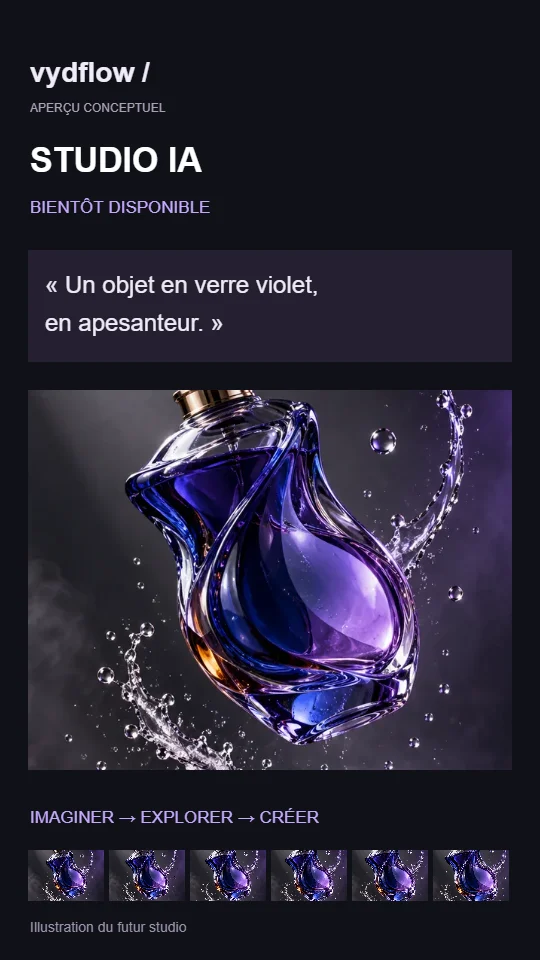
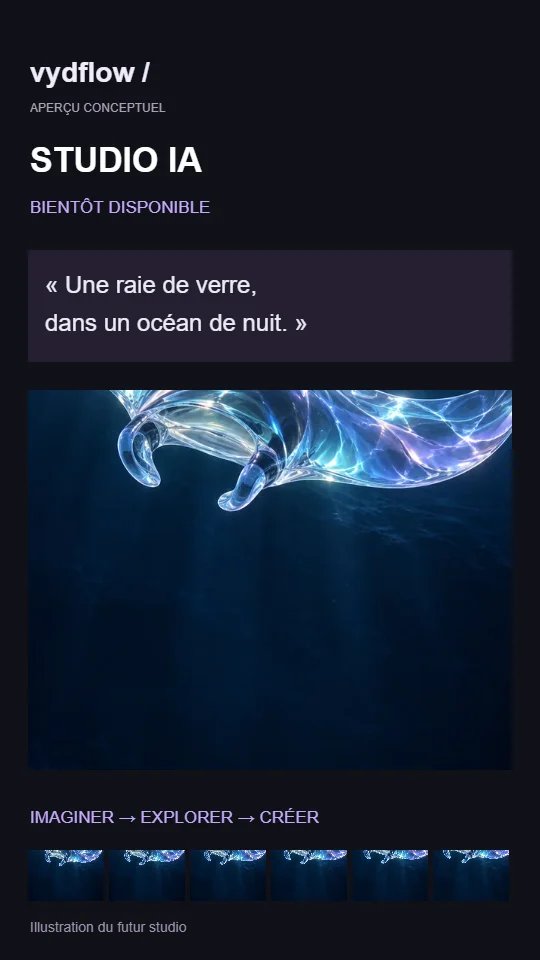
feat: refine VydFlow framing, chapter artwork and mobile finale

diff --git a/assets/styles/experience.css b/assets/styles/experience.css
@@ -30,10 +30,10 @@
 .calendar-block{align-items:center;padding:10px 8px;min-height:64px;font-size:10px}.calendar-block img{width:30px;height:43px;border-radius:3px;object-fit:cover}.calendar-block small{font-size:8px;line-height:1.5}.calendar-note{font-size:9px;margin-top:25px;color:#9c90ab}
 .organization .scene-copy{max-width:840px}.story.is-immersive .organization{min-height:max(1100px,125svh)}
 .ai-output{height:290px;margin-left:65px}.ai-output img{object-position:50% 49%;opacity:.9}
-.timeline-track i{background-image:url('/media/creators/object-thumb.webp');background-position:center calc(30% + var(--frame)*5%);background-size:calc(100% + var(--frame)*8%) auto}
-.creative-contact-sheet{display:flex;justify-content:center;gap:18px;padding:30px 0 60px;position:relative;z-index:2;perspective:1000px}
-.creative-contact-sheet img{width:115px;height:155px;object-fit:cover;border:1px solid #ffffff29;border-radius:6px;box-shadow:0 15px 40px #0009;transform:rotate(-8deg)}
-.creative-contact-sheet img:nth-child(even){transform:translateY(18px) rotate(7deg)}
+.timeline-track i{background-image:url('/media/creators/manta-thumb.webp');background-position:center calc(30% + var(--frame)*5%);background-size:calc(100% + var(--frame)*8%) auto}
+
+
+
 .scene-copy:before{inset:-40px -45px;background:radial-gradient(ellipse,#08090cf0 20%,#08090cb8 45%,transparent 73%)}
 .transformation:after,.organization:after{content:'';position:absolute;inset:0;z-index:-2;pointer-events:none;background:url('/media/creators/backstage.webp') center/cover;opacity:.055;mask-image:linear-gradient(transparent,#000 35%,transparent)}
 .organization:after{background-image:url('/media/creators/architecture.webp');opacity:.07}
@@ -62,19 +62,38 @@
   .preview-calendar{padding:18px;grid-column:auto}.preview-calendar .panel-heading{font-size:13px}.preview-calendar .panel-heading small{font-size:8px}.week{font-size:11px;margin:22px 0}.calendar-date{font-size:9px}.calendar-date strong{font-size:36px}.calendar-block{font-size:13px;padding:12px;gap:12px;min-height:80px}.calendar-block img{width:39px;height:55px}.calendar-block small{font-size:10px;margin-top:6px}.calendar-empty{display:block;font-size:11px;margin-top:22px}.calendar-note{font-size:11px;margin-bottom:0}
   .preview-bottom{font-size:7px;line-height:1.7;gap:15px;margin-top:24px}.organization .scene-disclaimer{text-align:left;font-size:11px;line-height:1.8}
   .vision{gap:34px}.prompt-card{padding:21px;transform:rotate(-2deg)}.prompt-card>span{font-size:9px}.prompt-card p{font-size:13px}.prompt-card small{font-size:8px}.generation-line{font-size:8px;margin:23px 15px}.ai-output{height:300px;margin-left:18px;transform:rotate(2deg)}.ai-output img{object-position:50% 44%}.ai-output>span{left:17px;bottom:20px}.ai-output b{font-size:20px}.timeline-preview{padding:17px;margin-top:25px}.timeline-preview>div:first-child{font-size:8px}.timeline-track{height:52px}.timeline-preview small{font-size:7px}
-  .creative-contact-sheet{gap:10px;padding:18px 20px 38px;display:grid;grid-template-columns:repeat(3,1fr);max-width:390px;margin:auto}.creative-contact-sheet img{width:100%;height:130px;transform:rotate(-4deg)}.creative-contact-sheet img:nth-child(even){transform:translateY(8px) rotate(4deg)}
+
   .finale{min-height:420px;padding-block:70px}.finale h2,.story.is-immersive .finale h2{font-size:43px}.finale-signature{font-size:54px;bottom:35px}.join{padding-block:65px}.join h2{font-size:38px}.join small{font-size:11px}
   .motion-toggle:not([hidden]){display:block;position:fixed;left:50%;right:auto;transform:translateX(-50%);bottom:9px;width:max-content;max-width:calc(100% - 40px);padding:8px 12px;font-size:9px;background:#14131ef5;box-shadow:0 5px 18px #0008}
   .transformation:after,.organization:after{display:none}
 }
 @media(max-width:360px){h1{font-size:35px}.hero,.story.is-immersive .hero,.world,.story.is-immersive .world{height:max(740px,100svh);min-height:740px}.fallback-phone{top:267px;width:168px;height:314px}.hero-mobile-cta{bottom:67px}.hero-mobile-cta p{font-size:11px}.library-video>div{height:148px}.library-grid{gap:20px 11px}.preview-content{padding:14px}.preview-title{font-size:12px}.destination-title h3{font-size:20px}.finale h2{font-size:39px}}
-@media(prefers-reduced-motion:reduce){.creative-contact-sheet img,.creative-contact-sheet img:nth-child(even),.mobile-editor-phone,.prompt-card,.ai-output,.timeline-preview{transform:none}.preview-video{display:none}.mobile-editor-phone{position:relative;top:0}}
+@media(prefers-reduced-motion:reduce){.mobile-editor-phone,.prompt-card,.ai-output,.timeline-preview{transform:none}.preview-video{display:none}.mobile-editor-phone{position:relative;top:0}}
 
 /* Keep the entire vertical edit visible, including its subtitles. */
-.media-window{height:auto;aspect-ratio:9/16}.creative-contact-sheet{overflow:clip}.frame-marks{background-image:url("/media/screens/screen-1.webp")}@media(max-width:1000px){.media-window{max-height:none;aspect-ratio:9/16}}
+.media-window{height:auto;aspect-ratio:9/16}@media(max-width:1000px){.media-window{max-height:none;aspect-ratio:9/16}}
 
 @media(max-width:1000px){.scene.hero{padding-top:99px;padding-bottom:0}.hero .scroll-hint{display:none}.mobile-explore{font-size:10px;color:#c0acd8;padding:3px 8px}.mobile-editor-phone{position:relative;top:0}.motion-toggle:not([hidden]){position:absolute;top:calc(max(780px,100svh) - 36px);bottom:auto;padding:6px 10px;font-size:8px}}@media(max-width:360px){.motion-toggle:not([hidden]){top:calc(max(740px,100svh) - 36px)}}
 
 @media(max-width:360px){.fallback-phone{top:257px;width:148px;height:278px}}@media(max-width:340px){h1{font-size:31px}.nav .wordmark{font-size:21px;gap:4px}.nav .button.small{font-size:8px;padding:10px;gap:10px}.nav .button.small span{font-size:15px}}
 
-.story{overflow:clip}@media(max-width:1000px){.nav{height:76px}.nav nav,.edition,.frame-marks,.studio-preview aside{display:none}.nav .wordmark{font-size:24px}.hero-top{justify-content:center}.scene{min-height:0}.scene-copy{max-width:none}.vision{display:flex;flex-direction:column;align-items:stretch}.world-footer{display:none}}@media(min-width:761px) and (max-width:1000px){.scene.hero,.world{height:max(860px,100svh);min-height:860px}.hero h1{font-size:54px}.fallback-phone{top:300px;width:190px;height:350px}.hero-mobile-cta{bottom:68px}.motion-toggle:not([hidden]){top:calc(max(860px,100svh) - 36px)}.scene h2{font-size:44px}.library-grid{grid-template-columns:repeat(3,1fr)}.library-video>div{height:200px}.destinations{max-width:560px;margin-inline:auto}.destination{max-width:390px}.vision .ai-composition{max-width:560px;width:100%;margin:auto}.creative-contact-sheet{max-width:500px}}
+.story{overflow:clip}@media(max-width:1000px){.nav{height:76px}.nav nav,.edition,.studio-preview aside{display:none}.nav .wordmark{font-size:24px}.hero-top{justify-content:center}.scene{min-height:0}.scene-copy{max-width:none}.vision{display:flex;flex-direction:column;align-items:stretch}.world-footer{display:none}}@media(min-width:761px) and (max-width:1000px){.scene.hero,.world{height:max(860px,100svh);min-height:860px}.hero h1{font-size:54px}.fallback-phone{top:300px;width:190px;height:350px}.hero-mobile-cta{bottom:68px}.motion-toggle:not([hidden]){top:calc(max(860px,100svh) - 36px)}.scene h2{font-size:44px}.library-grid{grid-template-columns:repeat(3,1fr)}.library-video>div{height:200px}.destinations{max-width:560px;margin-inline:auto}.destination{max-width:390px}.vision .ai-composition{max-width:560px;width:100%;margin:auto}}
+
+/* Third pass: a true framing stop and two exclusive chapter artworks. */
+.capture-caption{position:absolute;transform:translateX(-50%);opacity:0;white-space:nowrap;font-size:9px;letter-spacing:1.5px;color:#d9c7ff;pointer-events:none}
+.capture-fallback{position:absolute;right:10%;top:20%;width:245px;padding:8px;border:1px solid #c8b5de66;border-radius:35px;background:#1a1721;transform:rotate(-3deg)}
+.capture-fallback img{display:block;width:100%;height:auto;border-radius:27px}
+.is-immersive .capture-fallback{display:none}
+.creative-transition{position:relative;height:360px;margin:30px auto 80px;width:min(1120px,90%);overflow:hidden;border:1px solid #ffffff20}
+.creative-transition img{width:100%;height:100%;object-fit:cover;object-position:50% 43%;filter:brightness(.72)}
+.creative-transition span{position:absolute;left:35px;bottom:32px;font-size:12px;letter-spacing:3px;color:#f6eef9}
+.finale-mobile-device{display:none}
+@media(max-width:1000px){
+  .capture-fallback,.capture-caption{display:none}
+  .creative-transition{height:280px;margin:15px auto 25px;width:calc(100% - 40px)}
+  .creative-transition img{object-position:50% 35%}.creative-transition span{left:18px;bottom:22px;font-size:9px;letter-spacing:1.5px}
+  .finale-mobile-device{display:block;width:200px;margin:0 auto 38px;padding:5px;border:1px solid #a091b5;border-radius:29px;background:#1a1721;box-shadow:0 25px 60px #0008;transform:rotate(-4deg)}
+  .finale-mobile-device img{display:block;width:100%;height:auto;border-radius:23px}
+  .finale{padding-top:45px;padding-bottom:100px}
+}
+@media(prefers-reduced-motion:reduce){.finale-mobile-device,.capture-fallback{transform:none}}

diff --git a/assets/controllers/studio_controller.js b/assets/controllers/studio_controller.js
@@ -3,7 +3,7 @@ import { Controller } from '@hotwired/stimulus';
 const CHAPTERS = ['01 — L’IMPULSION', '01 — L’IMPULSION', '02 — LA RÉSONANCE', '03 — LE STUDIO', '04 — L’HORIZON', '05 — À TOI DE CRÉER'];
 
 export default class extends Controller {
-  static targets = ['canvas', 'stage', 'fallback', 'counter', 'progress', 'toggle'];
+  static targets = ['canvas', 'stage', 'fallback', 'counter', 'progress', 'toggle', 'framing'];
 
   connect() {
     this.element.dataset.studioState = 'connecting';
@@ -79,14 +79,14 @@ export default class extends Controller {
       this.animationContext.add(() => {
         const poses = [
           { px: 0, py: -1.45, pz: 0, rx: .04, ry: -.28, rz: -.09, scale: .78, orbit: -.45, light: 5 },
-          { px: 2.55, py: 0, pz: .7, rx: .22, ry: .62, rz: .14, scale: 1.02, orbit: .35, light: 9 },
+          { px: 2.55, py: 0, pz: .15, rx: .02, ry: -.08, rz: 0, scale: .86, orbit: .35, light: 9 },
           { px: -3.35, py: -.8, pz: 0, rx: -.08, ry: -.38, rz: -.16, scale: .82, orbit: 1.35, light: 7 },
           { px: 4.2, py: 1.5, pz: -2, rx: .32, ry: -.65, rz: .25, scale: .56, orbit: 2.4, light: 3 },
           { px: -3.4, py: -2.1, pz: -.8, rx: -.18, ry: .48, rz: -.25, scale: .48, orbit: 3.3, light: 8 },
           { px: -3, py: 0, pz: .2, rx: .04, ry: -.25, rz: -.14, scale: .96, orbit: 4.4, light: 6 },
         ];
         const atmospheres = [{cool:0, lift:-.3, spread:1}, {cool:.2, lift:0, spread:1}, {cool:0, lift:0, spread:1}, {cool:.8, lift:-1.8, spread:.55}, {cool:1, lift:0, spread:.8}, {cool:.1, lift:0, spread:1}];
-        poses.forEach((pose, index) => Object.assign(pose, atmospheres[index]));
+        poses.forEach((pose, index) => Object.assign(pose, atmospheres[index], { capture: index === 1 ? 1 : 0, ribbon: [.42, .06, .14, .05, 0, .08][index] }));
         Object.assign(this.pose, poses[0]);
         // One scroll clock owns every pose: fast reverse scrolling cannot leave a later tween in control.
         const scrollState = { progress: 0 };
@@ -95,7 +95,9 @@ export default class extends Controller {
           const position = scrollState.progress * distance;
           let index = 0;
           while (index < poses.length - 2 && position > stops[index + 1]) index++;
-          const fraction = Math.max(0, Math.min(1, (position - stops[index]) / (stops[index + 1] - stops[index])));
+          const raw = Math.max(0, Math.min(1, (position - stops[index]) / (stops[index + 1] - stops[index])));
+          // Hold the edit inside its framing rig before starting the next journey.
+          const fraction = index === 1 ? Math.max(0, (raw - .28) / .72) : raw;
           const eased = (1 - Math.cos(fraction * Math.PI)) / 2;
           Object.keys(poses[0]).forEach(key => { this.pose[key] = poses[index][key] + (poses[index + 1][key] - poses[index][key]) * eased; });
           this.screenPhase = index + Math.max(0, Math.min(1, (fraction - .5) / .25));
@@ -175,6 +177,19 @@ export default class extends Controller {
     mesh(new THREE.ShapeGeometry(rounded(.67, .15, .075)), new THREE.MeshBasicMaterial({ color: 0x030305 }), phone, 0, 1.8, .235);
     mesh(new THREE.BoxGeometry(.04, .42, .1), new THREE.MeshStandardMaterial({ color: 0xaaa1b6, metalness: 1, roughness: .2 }), phone, 1.17, .65, .08);
     mesh(new THREE.BoxGeometry(.04, .22, .1), new THREE.MeshStandardMaterial({ color: 0xaaa1b6, metalness: 1, roughness: .2 }), phone, -1.17, .9, .08);
+    // The framing rig shares the phone's camera and world units, so resize cannot misalign them.
+    this.captureRig = new THREE.Group();
+    this.captureMaterial = keep(new THREE.LineBasicMaterial({ color: 0xd9c7ff, transparent: true, opacity: 0, depthTest: false, depthWrite: false }));
+    const corners = [], halfW = 1.19, halfH = 2.05, arm = .28;
+    for (const x of [-1, 1]) for (const y of [-1, 1]) {
+      corners.push(x * halfW, y * (halfH - arm), 0, x * halfW, y * halfH, 0);
+      corners.push(x * halfW, y * halfH, 0, x * (halfW - arm), y * halfH, 0);
+    }
+    const framingGeometry = keep(new THREE.BufferGeometry());
+    framingGeometry.setAttribute('position', new THREE.Float32BufferAttribute(corners, 3));
+    this.captureRig.add(new THREE.LineSegments(framingGeometry, this.captureMaterial));
+    scene.add(this.captureRig);
+    this.captionPosition = new THREE.Vector3();
     // Film-strip sculptures: broad metallic ribbons with fine illuminated edit rails.
     this.ribbonMaterials = [];
     this.violet = new THREE.Color(0x7950c8);
@@ -236,11 +251,20 @@ export default class extends Controller {
     // Compress horizontal staging on smaller desktop viewports, preserving the text columns.
     const widthFactor = Math.min(1, this.camera.aspect / 1.65);
     this.phone.position.set(p.px * widthFactor, p.py, p.pz);
-    this.phone.rotation.set(p.rx + this.cursor.y, p.ry + this.cursor.x, p.rz);
+    const cursorWeight = 1 - (p.capture || 0);
+    this.phone.rotation.set(p.rx + this.cursor.y * cursorWeight, p.ry + this.cursor.x * cursorWeight, p.rz);
     this.phone.scale.setScalar(p.scale);
+    this.captureRig.position.set(2.55 * widthFactor, 0, .6);
+    this.captureMaterial.opacity = p.capture || 0;
+    this.captionPosition.set(2.55 * widthFactor, -2.35, .6).project(this.camera);
+    this.framingTarget.style.left = ((this.captionPosition.x + 1) / 2 * 100) + '%';
+    this.framingTarget.style.top = ((1 - this.captionPosition.y) / 2 * 100) + '%';
+    this.framingTarget.style.opacity = String(p.capture || 0);
+    this.element.dataset.capture = (p.capture || 0).toFixed(3);
     this.sculpture.position.y = p.lift || 0;
     this.sculpture.scale.y = p.spread || 1;
     this.ribbonMaterials.forEach((material, index) => {
+      material.opacity = p.ribbon ?? .42;
       material.color.lerpColors(this.violet, this.silver, p.cool || 0).multiplyScalar(index === 1 ? 1 : .55);
     });
     this.sculpture.rotation.z = p.orbit;
@@ -293,13 +317,13 @@ export default class extends Controller {
     };
     this.syncFilm = () => {
       const phase = this.screenPhase || 0;
-      const active = this.visible && !document.hidden && (phase < 1 || phase > 4);
+      const active = this.visible && !document.hidden && phase < 1;
       if (!active) { stop(); return; }
       if (!video.paused || requesting) return;
       requesting = true;
       video.play().then(() => {
         requesting = false;
-        if (generation !== this.generation || !this.visible || document.hidden || (this.screenPhase >= 1 && this.screenPhase <= 4)) { stop(); return; }
+        if (generation !== this.generation || !this.visible || document.hidden || this.screenPhase >= 1) { stop(); return; }
         if (video.requestVideoFrameCallback) this.frameCallback = video.requestVideoFrameCallback(frame);
         else this.renderer?.setAnimationLoop(() => this.render());
       }).catch(() => { requesting = false; this.render(); });
@@ -342,6 +366,7 @@ export default class extends Controller {
     this.resources?.clear();
     this.environment?.dispose(); this.environment = null;
     this.renderer?.dispose(); this.renderer = null;
+    this.framingTarget.style.opacity = '0';
     this.stageTarget.classList.remove('ready');
     this.element.classList.remove('is-immersive');
   }

diff --git a/scripts/render-flow-film.html b/scripts/render-flow-film.html
@@ -1,7 +1,7 @@
 <!doctype html><html lang="fr"><meta charset="utf-8"><title>VydFlow · rendu des médias locaux</title><style>body{background:#111019;color:white;font:16px Arial;padding:25px}button{padding:15px}canvas{width:135px;height:240px;margin-top:15px;display:block}</style><h1>Rendu des médias VydFlow</h1><p>6 écrans et 4 montages originaux, calculés localement.</p><button id="render">Rendre la collection</button><p id="status">Prêt</p><canvas width="540" height="960"></canvas><script type="module">// Presentation assets only. This module does not implement editing or publishing.
 const MEDIA = ['dance', 'object', 'architecture', 'backstage', 'portrait', 'landscape'];
 async function loadMedia() {
-  const pairs = await Promise.all(MEDIA.map(name => new Promise(resolve => {
+  const pairs = await Promise.all([...MEDIA, 'manta', 'river'].map(name => new Promise(resolve => {
     const image = new Image(); image.onload = () => resolve([name, image]); image.onerror = () => resolve([name, null]);
     image.src = '/media/creators/' + name + '.webp';
   })));
@@ -45,10 +45,20 @@ function drawFilm(c, images, seconds, variant = 'hero') {
 }
 function drawScreen(c, images, mode, phase = 0, video = null) {
   c.clearRect(0, 0, 540, 960); c.fillStyle = '#101118'; c.fillRect(0, 0, 540, 960);
-  if (mode === 0 || mode === 5) {
+  if (mode === 0) {
     if (video?.readyState >= 2) cover(c, video, 0, 0, 540, 960);
     else drawFilm(c, images, phase * 8, 'hero');
-    if (mode === 5) {shade(c, 350);text(c, 'TON PROCHAIN', 34, 676, 24, '#dbc9ff');text(c, 'mouvement.', 30, 745, 61, '#fff', 700);text(c, 'commence ici /', 34, 807, 32);}
+
+    return;
+  }
+  if (mode === 5) {
+    cover(c, images.river, 0, 0, 540, 570);
+    c.fillStyle = '#101118'; c.fillRect(0, 570, 540, 390);
+    text(c, 'VYDFLOW / À TOI DE CRÉER', 34, 628, 15, '#bda9dd');
+    text(c, 'TON PROCHAIN', 34, 703, 22, '#dbc9ff');
+    text(c, 'mouvement.', 30, 774, 61, '#fff', 700);
+    text(c, 'commence ici /', 34, 835, 32);
+    c.fillStyle = '#bda9dd'; c.fillRect(34, 887, 62, 3);
     return;
   }
   text(c, 'vydflow /', 30, 82, 28, '#f0ebfa', 700);text(c, 'APERÇU CONCEPTUEL', 30, 112, 12, '#aaa0b9');
@@ -74,11 +84,12 @@ function drawScreen(c, images, mode, phase = 0, video = null) {
     c.fillStyle = '#201b2e';c.fillRect(29, 813, 482, 98);text(c, 'MARDI / 18:00', 47, 850, 17, '#cbb2f8');text(c, 'Mouvement · Reel à préparer', 47, 884, 21);
   } else {
     text(c, 'STUDIO IA', 30, 172, 34, '#fff', 700);text(c, 'BIENTÔT DISPONIBLE', 30, 213, 17, '#c5a9ff');
-    c.fillStyle = '#242030';c.fillRect(28, 250, 484, 112);text(c, '« Un objet en verre violet,', 45, 293, 24);text(c, 'en apesanteur. »', 45, 331, 24);
-    cover(c, images.object, 28, 390, 484, 380, 1.12);
+    c.fillStyle = '#242030';c.fillRect(28, 250, 484, 112);text(c, '« Une raie de verre,', 45, 293, 24);text(c, 'dans un océan de nuit. »', 45, 331, 24);
+    cover(c, images.manta, 28, 390, 484, 380, 1.12);
     text(c, 'IMAGINER → EXPLORER → CRÉER', 30, 823, 17, '#c5a9ff');
-    for(let i = 0; i < 6; i++)cover(c, images.object, 28 + i * 81, 850, 76, 51, 1 + i * .06);
+    for(let i = 0; i < 6; i++)cover(c, images.manta, 28 + i * 81, 850, 76, 51, 1 + i * .06);
     text(c, 'Illustration du futur studio', 30, 932, 14, '#9d93ac');
   }
 }
+
 const canvas=document.querySelector('canvas'),c=canvas.getContext('2d'),status=document.querySelector('#status');const images=await loadMedia();drawFilm(c,images,0);const save=async(name,blob)=>{const a=document.createElement('a');a.href=URL.createObjectURL(blob);a.download=name;a.textContent='Télécharger '+name;a.style.display='block';document.body.appendChild(a);};document.querySelector('#render').onclick=async()=>{document.querySelector('#render').disabled=true;try{for(let i=0;i<6;i++){drawScreen(c,images,i,.2);await save('screen-'+i+'.webp',await new Promise(r=>canvas.toBlob(r,'image/webp',.86)));status.textContent='Écran '+(i+1)+' / 6';}for(const variant of ['hero','tiktok','reels','shorts']){const duration=variant==='hero'?8:5,stream=canvas.captureStream(24),type=MediaRecorder.isTypeSupported('video/webm;codecs=vp9')?'video/webm;codecs=vp9':'video/webm',recorder=new MediaRecorder(stream,{mimeType:type,videoBitsPerSecond:900000}),chunks=[];recorder.ondataavailable=e=>chunks.push(e.data);const done=new Promise(r=>recorder.onstop=r);recorder.start();const start=performance.now();await new Promise(resolve=>{function frame(now){let t=(now-start)/1000;drawFilm(c,images,Math.min(duration-.01,t),variant);status.textContent=variant+' : '+Math.min(duration,t).toFixed(1)+' / '+duration+' s';if(t<duration)requestAnimationFrame(frame);else resolve()}requestAnimationFrame(frame)});recorder.stop();await done;stream.getTracks().forEach(t=>t.stop());await save(variant+'.webm',new Blob(chunks,{type:'video/webm'}));}status.textContent='TERMINÉ : 6 écrans + 4 films enregistrés.';}catch(e){status.textContent='ERREUR : '+e.message;}document.querySelector('#render').disabled=false};</script></html>

diff --git a/assets/screen-composer.js b/assets/screen-composer.js
@@ -1,7 +1,7 @@
 // Presentation assets only. This module does not implement editing or publishing.
 export const MEDIA = ['dance', 'object', 'architecture', 'backstage', 'portrait', 'landscape'];
 export async function loadMedia() {
-  const pairs = await Promise.all(MEDIA.map(name => new Promise(resolve => {
+  const pairs = await Promise.all([...MEDIA, 'manta', 'river'].map(name => new Promise(resolve => {
     const image = new Image(); image.onload = () => resolve([name, image]); image.onerror = () => resolve([name, null]);
     image.src = '/media/creators/' + name + '.webp';
   })));
@@ -45,10 +45,20 @@ export function drawFilm(c, images, seconds, variant = 'hero') {
 }
 export function drawScreen(c, images, mode, phase = 0, video = null) {
   c.clearRect(0, 0, 540, 960); c.fillStyle = '#101118'; c.fillRect(0, 0, 540, 960);
-  if (mode === 0 || mode === 5) {
+  if (mode === 0) {
     if (video?.readyState >= 2) cover(c, video, 0, 0, 540, 960);
     else drawFilm(c, images, phase * 8, 'hero');
-    if (mode === 5) {shade(c, 350);text(c, 'TON PROCHAIN', 34, 676, 24, '#dbc9ff');text(c, 'mouvement.', 30, 745, 61, '#fff', 700);text(c, 'commence ici /', 34, 807, 32);}
+
+    return;
+  }
+  if (mode === 5) {
+    cover(c, images.river, 0, 0, 540, 570);
+    c.fillStyle = '#101118'; c.fillRect(0, 570, 540, 390);
+    text(c, 'VYDFLOW / À TOI DE CRÉER', 34, 628, 15, '#bda9dd');
+    text(c, 'TON PROCHAIN', 34, 703, 22, '#dbc9ff');
+    text(c, 'mouvement.', 30, 774, 61, '#fff', 700);
+    text(c, 'commence ici /', 34, 835, 32);
+    c.fillStyle = '#bda9dd'; c.fillRect(34, 887, 62, 3);
     return;
   }
   text(c, 'vydflow /', 30, 82, 28, '#f0ebfa', 700);text(c, 'APERÇU CONCEPTUEL', 30, 112, 12, '#aaa0b9');
@@ -74,10 +84,10 @@ export function drawScreen(c, images, mode, phase = 0, video = null) {
     c.fillStyle = '#201b2e';c.fillRect(29, 813, 482, 98);text(c, 'MARDI / 18:00', 47, 850, 17, '#cbb2f8');text(c, 'Mouvement · Reel à préparer', 47, 884, 21);
   } else {
     text(c, 'STUDIO IA', 30, 172, 34, '#fff', 700);text(c, 'BIENTÔT DISPONIBLE', 30, 213, 17, '#c5a9ff');
-    c.fillStyle = '#242030';c.fillRect(28, 250, 484, 112);text(c, '« Un objet en verre violet,', 45, 293, 24);text(c, 'en apesanteur. »', 45, 331, 24);
-    cover(c, images.object, 28, 390, 484, 380, 1.12);
+    c.fillStyle = '#242030';c.fillRect(28, 250, 484, 112);text(c, '« Une raie de verre,', 45, 293, 24);text(c, 'dans un océan de nuit. »', 45, 331, 24);
+    cover(c, images.manta, 28, 390, 484, 380, 1.12);
     text(c, 'IMAGINER → EXPLORER → CRÉER', 30, 823, 17, '#c5a9ff');
-    for(let i = 0; i < 6; i++)cover(c, images.object, 28 + i * 81, 850, 76, 51, 1 + i * .06);
+    for(let i = 0; i < 6; i++)cover(c, images.manta, 28 + i * 81, 850, 76, 51, 1 + i * .06);
     text(c, 'Illustration du futur studio', 30, 932, 14, '#9d93ac');
   }
 }

diff --git a/docs/landing-experience.md b/docs/landing-experience.md
@@ -1,4 +1,4 @@
-# VydFlow — expérience visuelle, passe 2
+# VydFlow — expérience visuelle, passe 3
 
 ## Objectif
 Faire découvrir le futur studio par ses contenus : chaque chapitre apporte un nouvel écran et un nouvel usage. La bibliothèque, le calendrier, les montages et le studio IA restent des illustrations. Seule la liste d’attente est fonctionnelle.
@@ -8,7 +8,7 @@ Faire découvrir le futur studio par ses contenus : chaque chapitre apporte un n
 - assets/controllers/studio_controller.js : cycle de vie Stimulus, scène Three.js, progression GSAP unique, changement d’écran et lecture des vidéos visibles.
 - assets/screen-composer.js : dessine six écrans de démonstration sur canvas. Ce module ne réalise aucun montage métier et n’enregistre aucune donnée utilisateur.
 - assets/styles/experience.css : direction artistique des médias et composition mobile indépendante, chargée après les styles de base.
-- public/media/creators : six images originales et leurs miniatures compressées WebP.
+- public/media/creators : huit images originales et leurs miniatures compressées WebP.
 - public/media/screens : six affiches d’écran, utilisées dans les versions HTML et statiques.
 - public/media/films : quatre montages WebM, muets, à partir des images originales.
 - scripts/prepare-media.py : compression des sources locales avec Pillow. Sources de travail dans output/media/source, ignorées par Git.
@@ -22,7 +22,7 @@ Faire découvrir le futur studio par ses contenus : chaque chapitre apporte un n
 6. Pause, changement de breakpoint, mouvement réduit et déconnexion libèrent les observateurs, les timelines, les vidéos et les ressources GPU. Le contenu HTML reste disponible.
 
 ## Mise en scène mobile
-Hero compact avec CTA direct. Téléphone de montage en HTML avec inclinaison et curseur de timeline au scroll. Trois destinations successives de taille lisible. Bibliothèque de six créations en deux colonnes, puis calendrier complet. Instruction IA, résultat et timeline séparés. Planche-contact de conclusion.
+Hero compact avec CTA direct. Téléphone de montage en HTML avec inclinaison et curseur de timeline au scroll. Trois destinations successives de taille lisible. Bibliothèque de six créations en deux colonnes, puis calendrier complet. Instruction IA, résultat et timeline séparés. Transition photographique exclusive, puis téléphone de conclusion en HTML avec un écran sans légendes superposées.
 
 ## Médias et provenance
 Les six images ont été générées pour VydFlow avec l’outil imagegen : danse contemporaine en studio ; objet en verre violet ; escalier architectural ; coulisses de tournage ; portrait créatif ; paysage volcanique. Personnages fictifs, aucun témoignage produit. Aucune image de Lusion reprise.
@@ -34,3 +34,17 @@ Twig garde le contenu lisible et le formulaire utilisable avant le JavaScript. S
 ## Tester
 Exécuter npm run check et npm run build, puis docker compose exec php php scripts/check.php. Ce dernier applique les migrations de la base de test avant PHPUnit. Les tests destructifs vérifient shortflow_test, le nom historique conservé pour les données locales.
 Ouvrir http://localhost:8000, vérifier 360/390/768/1440 px, suivre chaque chapitre et regarder le changement du contenu du téléphone. Tester les trois vidéos, les ancres, la pause, le clavier, un aller-retour rapide, le redimensionnement et un rechargement sur #organisation. Vérifier aussi le poster si autoplay ou WebGL est refusé et le contenu statique en mouvement réduit.
+
+## Passe 3 : cadrage et renouvellement visuel
+La version précédente est conservée par le commit 5fc4b84. Cette passe corrige trois points :
+- L’impulsion : les quatre repères sont désormais des LineSegments Three.js dans la même caméra que le téléphone. Le téléphone arrive presque de face, réduit à .86, entièrement contenu dans les repères. La pose est maintenue pendant 28 % du segment suivant. Le léger suivi du curseur disparaît durant ce cadrage pour stabiliser la composition.
+- Conclusion : drawScreen(5) dessine une image sans texte dans la partie supérieure, puis un panneau opaque de 390 pixels. Toute la typographie repose sur ce panneau. Le film du hero est arrêté dès la sortie du premier écran et ne redémarre plus en conclusion.
+- Variété : manta.webp et river.webp sont deux créations originales supplémentaires produites avec imagegen. La raie de verre remplace l’objet déjà utilisé dans les réseaux et la bibliothèque ; la rivière remplace la planche de six images répétées et apparaît dans le dernier écran. Les rubans métalliques sont atténués différemment à chaque chapitre.
+
+### Nouveaux médias
+Images verticales WebP 720×1279, miniatures dans une boîte maximale de 270×480. Sources PNG de génération conservées dans output/media/source (ignoré).
+- manta : raie translucide en verre irisé, océan de nuit, faisceaux sous-marins bleus et reflets violets, composition verticale sans texte. Utilisation : aperçu IA, timeline et écran 4.
+- river : photographie cinématographique aérienne d’une rivière argentée traversant un canyon de basalte noir, aube pêche et lilas, composition verticale sans texte. Utilisation : transition, écran 5 desktop/mobile.
+
+Le script scripts/render-flow-film.html est synchronisé avec le compositeur. Les posters 4 et 5 ont été régénérés depuis ce compositeur dans le navigateur ; les quatre films existants restent identiques.
+Aucun service Symfony supplémentaire : Twig rend toujours les aperçus et le formulaire, Stimulus ne fait qu’améliorer la présentation. Le cadre 3D est libéré avec les autres géométries et matériaux lors de cleanup().

diff --git a/docs/verification.md b/docs/verification.md
@@ -1,3 +1,28 @@
+# Vérification — 13 octobre 2026, passe visuelle 3
+
+## Sauvegarde
+Version précédente commitée avant toute retouche : 5fc4b84, feat: preserve VydFlow immersive landing v1. Les améliorations de la passe 3 restent dans le working tree pour revue.
+
+## Résultats exécutés
+- npm run check : sortie 0.
+- npm run build : sortie 0, après nettoyage des anciennes compositions CSS. Avertissements habituels sur les chemins /media servis au runtime et le chunk Three.js importé dynamiquement (705 kB, 181 kB gzip).
+- php scripts/check.php via Docker Compose : sortie 0. Migrations appliquées à shortflow_test avant PHPUnit ; schémas dev/test conformes ; 17 YAML, 3 Twig et conteneur valides ; PHPStan sans erreur ; CS-Fixer : 0 fichier à corriger sur 11 ; PHPUnit : 4 tests, 26 assertions.
+- Navigateur intégré, desktop 1280×720 : arrêt du téléphone presque frontal, entièrement à l’intérieur du cadre. Capture à dataset.capture=1.000. Dernier écran contrôlé : photographie en haut, texte isolé sur fond opaque, aucun chevauchement de légendes.
+- Scroll rapide en avant et en arrière, rechargement en fin de page : écran 5 restauré. Pause puis reprise au clavier : canvas libéré et légende du cadre masquée.
+- Responsive dans une iframe locale : 360×740, 390×844, 768×844. Aucun débordement horizontal mesuré ; téléphone final et titre séparés par plus de 60 pixels à 360 et 390. Mode mobile HTML actif sous 1001 px.
+- Simulation sans WebGL à 1280 px : state=fallback, aperçu de montage HTML présent.
+- Mouvement réduit simulé : aucune scène immersive et aucune vidéo chargée (quatre src null).
+- git diff --check : sortie 0 après suppression d’un espace résiduel.
+- Console desktop : aucune erreur lors du contrôle.
+- Captures : output/visual-qa/v2-framing-desktop.png, v2-finale-desktop.png et v2-finale-mobile.png.
+- Nouveaux médias : deux images originales imagegen compressées, deux miniatures ; posters 4 et 5 régénérés depuis screen-composer. Les films existants sont conservés.
+
+## Limites
+Pas de téléphone physique, benchmark FPS, Lighthouse ou campagne multi-navigateurs. Les simulations ne remplacent pas les réglages d’un appareil réel.
+Aucun changement de route, entité, migration ni service métier. Les identifiants historiques PostgreSQL et les données du développeur sont conservés. Aucune mise en ligne.
+
+---
+
 # Vérification — 13 octobre 2026, passe visuelle 2
 
 ## Résultats réellement exécutés

diff --git a/docs/design-system.md b/docs/design-system.md
@@ -25,3 +25,6 @@ Mobile : mise en scène HTML indépendante, film natif dans le hero, inclinaison
 ## Médias
 Six créations originales produites avec imagegen et compressées en WebP, six miniatures, six affiches d’écran et quatre montages WebM de démonstration. Le hero de huit secondes alterne danse, objet et architecture. TikTok, Reels et Shorts disposent chacun d’un montage de cinq secondes différent. Les vidéos sont des montages animés à partir d’images, pas des séquences tournées ou produites par un modèle vidéo.
 Voir landing-experience.md pour le flux et la provenance. scripts/render-flow-film.html contient un outil de rendu canvas/MediaRecorder sans service externe : le copier temporairement dans public, l’ouvrir sur localhost:8000, rendre puis télécharger les fichiers ; retirer ensuite la copie publique. scripts/prepare-media.py compresse les sources de travail de output/media/source avec Pillow.
+
+## Passe 3 — chapitres exclusifs
+Le cadre de cadrage appartient à la scène Three.js, avec une marge autour du téléphone presque frontal et un arrêt au scroll. Les rubans métalliques passent de .42 dans le hero à .06 en montage et 0 dans le concept IA. La raie de verre est exclusive au studio IA ; la rivière ouvre la conclusion. Sur le dernier écran, la typographie occupe un panneau anthracite opaque sous la photographie, sans texte préexistant. La conclusion mobile utilise un téléphone HTML séparé du titre et du CTA.
